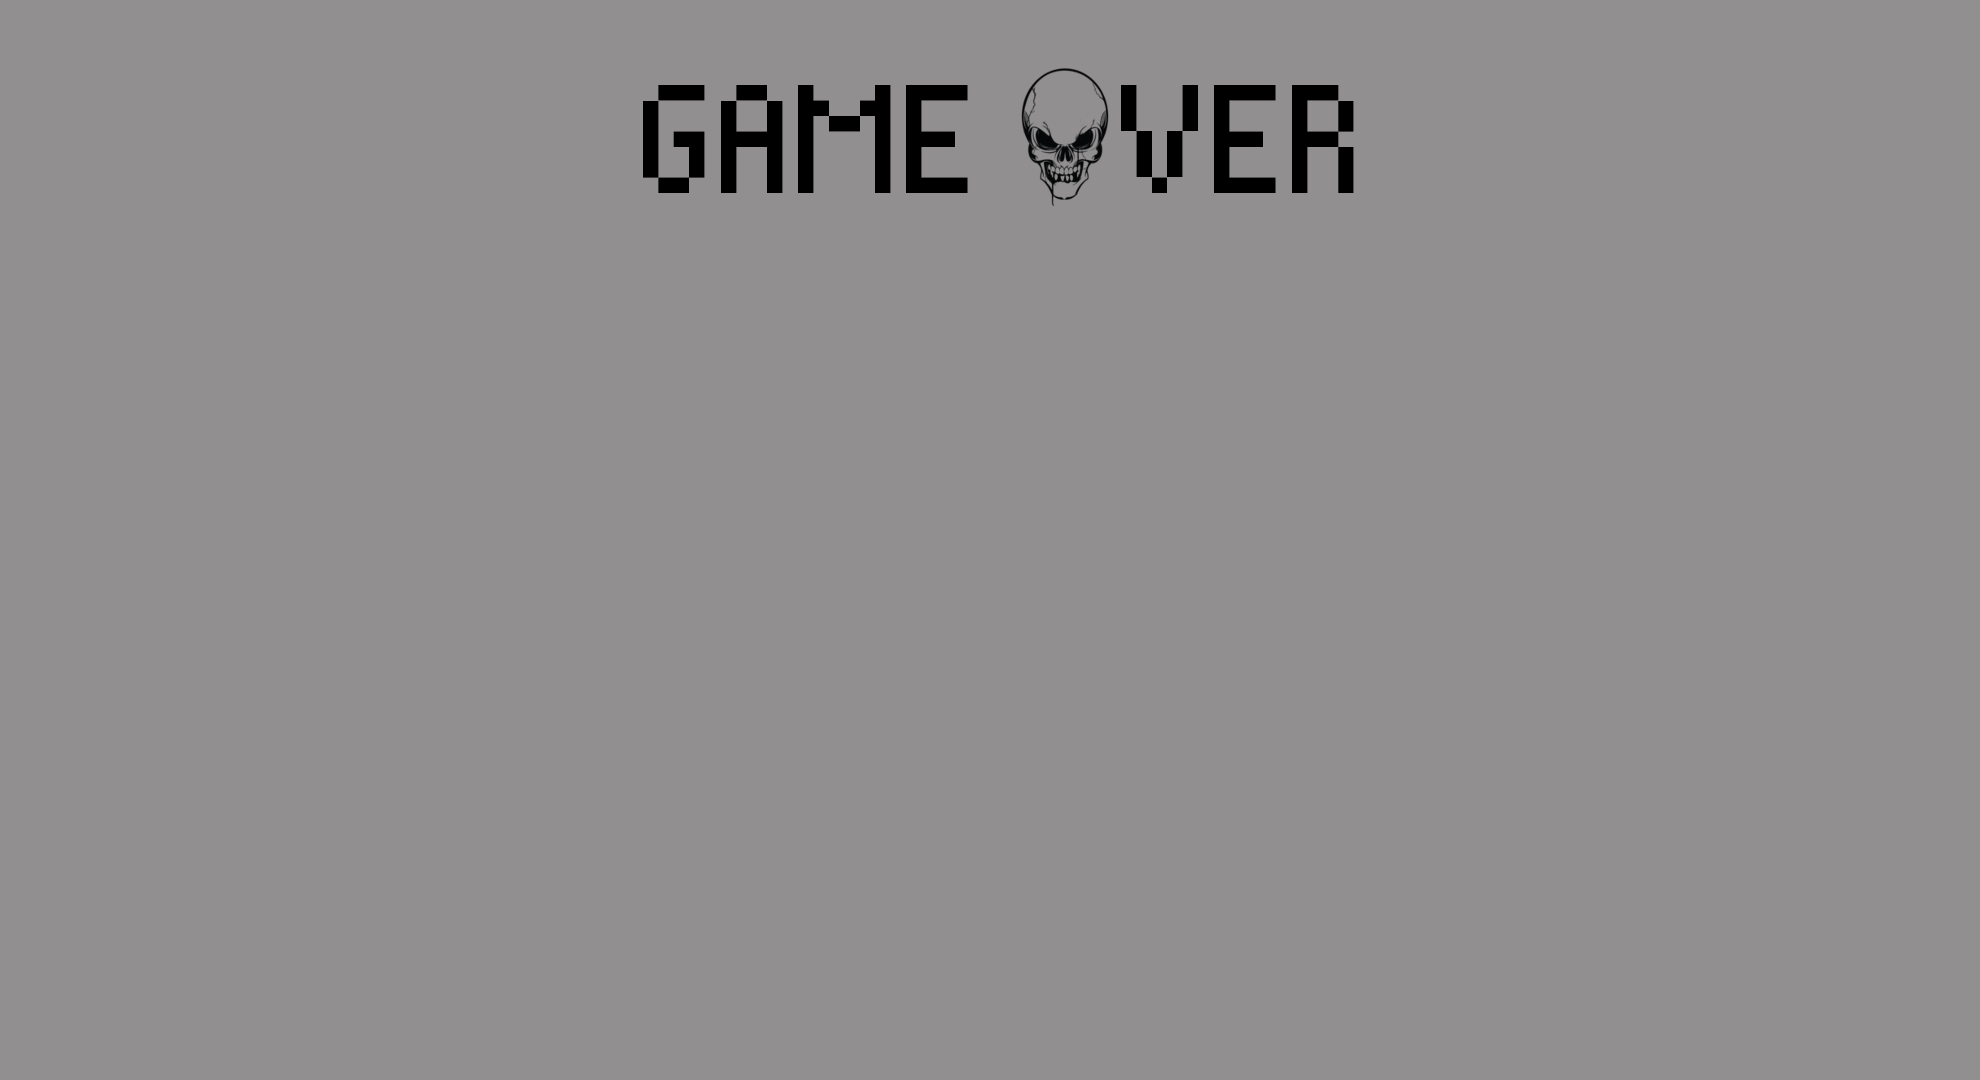
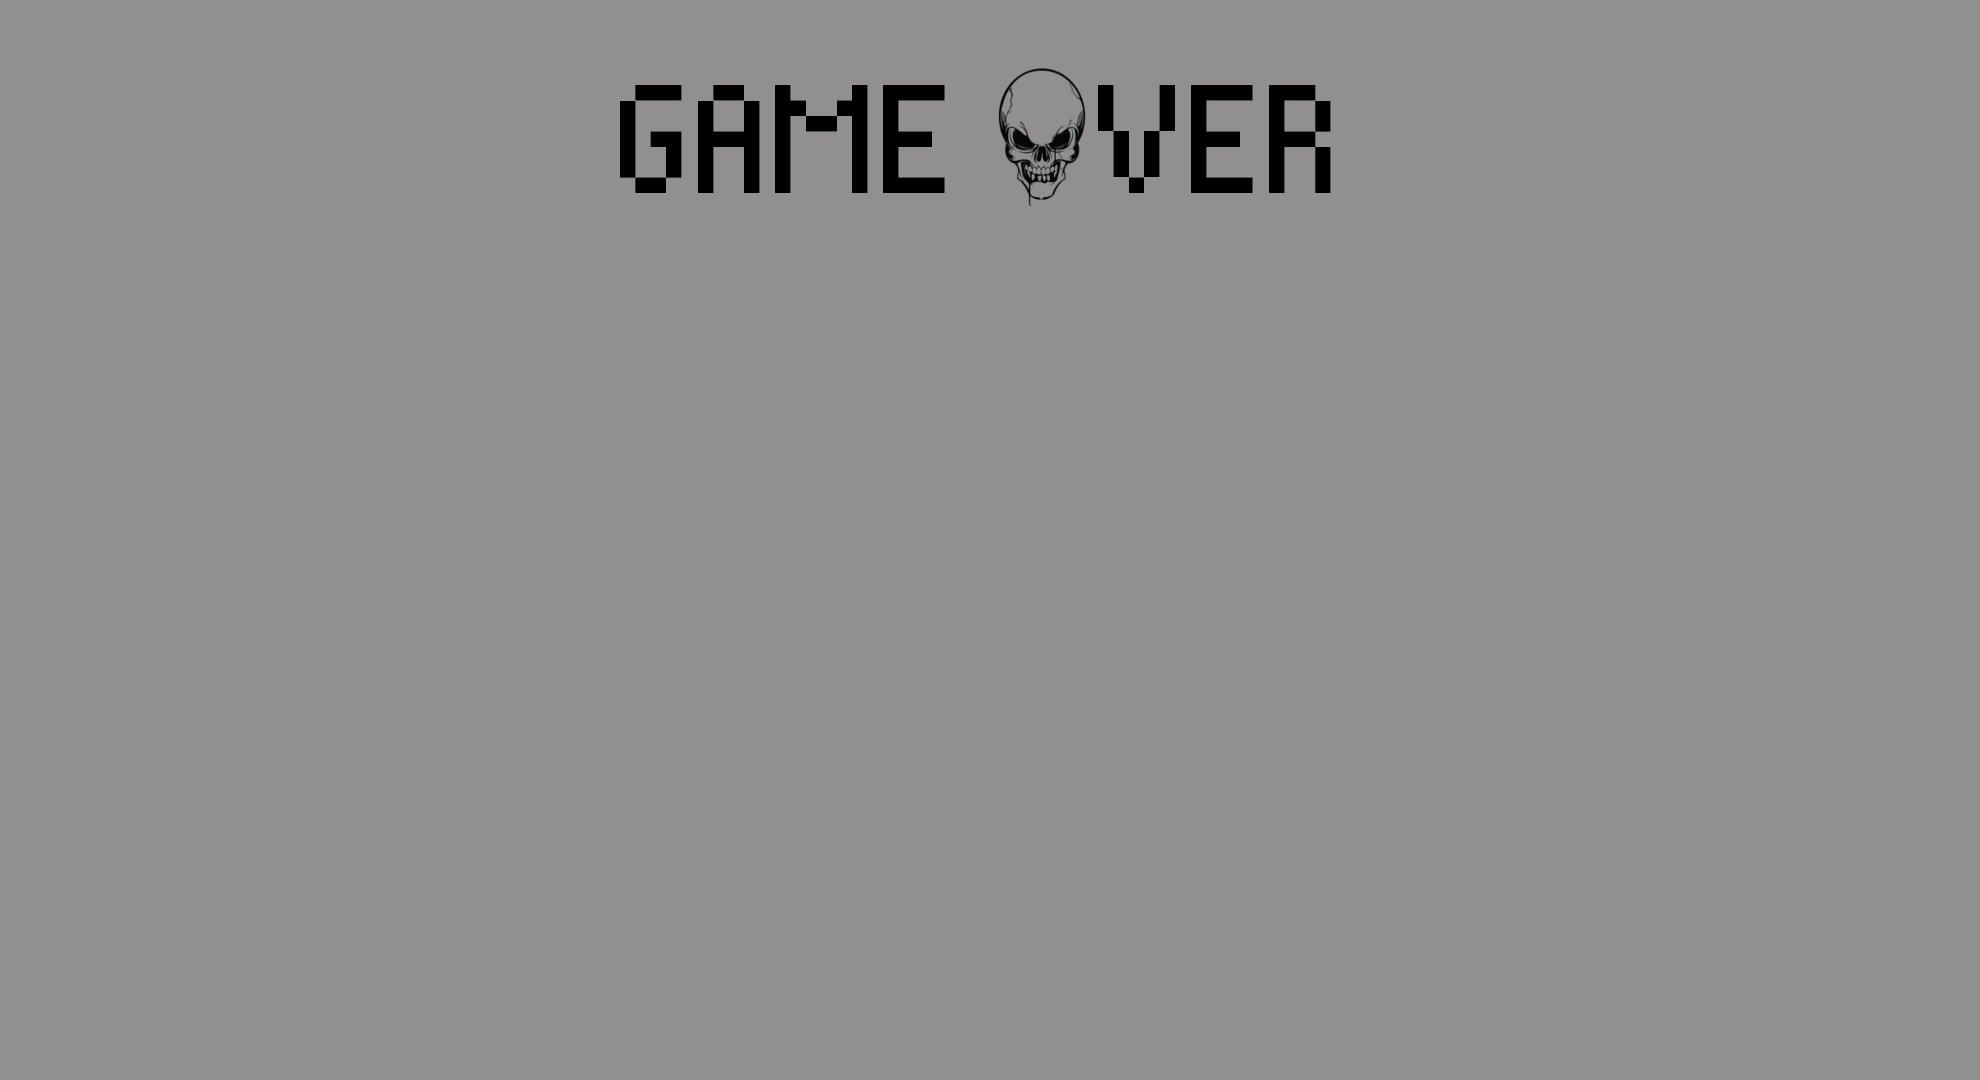
Fix bugs

Changed region(s): [[0.3081, 0.0611, 0.7086, 0.1833]]

diff --git a/src/gameover.cpp b/src/gameover.cpp
@@ -4,7 +4,7 @@
 using namespace std;
 using namespace sf;
 
-GameOver::GameOver(WindowRunner *window, Game &game) : ScreenWait(GAMEOVER_BACKGROUND_IMG, GAME_OVER_TEXT), window(window), game(game), timer(20), cursor_blink(500), cursor_visible(false), button_menu("MENU", MENU, 0, 0), button_playagain("PLAY AGAIN", SURVIVAL, 0, 0)
+GameOver::GameOver(WindowRunner *window, Game &game) : ScreenWait(GAMEOVER_BACKGROUND_IMG, Utils::translate(WindowRunner::getSetting("lang"), "game.over")), window(window), game(game), timer(20), cursor_blink(500), cursor_visible(false), button_menu("MENU", MENU, 0, 0), button_playagain("PLAY AGAIN", SURVIVAL, 0, 0)
 {
     assert(this->board_texture.loadFromFile(GAMEOVER_BOARD_IMG));
     this->board.setTexture(this->board_texture);
@@ -72,6 +72,8 @@ void GameOver::update()
     this->button_playagain.setText(Utils::translate(WindowRunner::getSetting("lang"), "playagain.button"));
     this->pseudo.setString(game.getModel()->getPseudo());
     this->score.setString(to_string(game.getModel()->getScore()));
+    this->setText(Utils::translate(WindowRunner::getSetting("lang"), "game.over"));
+    this->setTextPosition(Vector2f((VIEW_WIDTH - this->getTextWidth()) / 2, VIEW_HEIGHT - this->getTextHeight() - 100));
 
     if(this->board.getPosition().y > (VIEW_HEIGHT - this->board.getLocalBounds().height) / 2)
     {

diff --git a/src/window.cpp b/src/window.cpp
@@ -38,8 +38,8 @@ void WindowRunner::create()
     this->window->setView(*this);
     this->state = SPLASH;
 
-    this->splash_screen.setTextPosition(Vector2f((this->getSize().x - this->splash_screen.getTextWidth()) / 2, (this->getSize().y - this->splash_screen.getTextHeight()) / 1.2));
-    this->game_over.setTextPosition(Vector2f((this->getSize().x / 15), (this->getSize().y / 2)));
+    this->splash_screen.setText(Utils::translate(WindowRunner::getSetting("lang"), "splash.text"));
+    this->splash_screen.setTextPosition(Vector2f((this->getSize().x - this->splash_screen.getTextWidth()) / 2, (this->getSize().y - this->splash_screen.getTextHeight()) * 0.915));
 
     this->window->setFramerateLimit(FRAMERATE);
     this->window->setVerticalSyncEnabled(false); //Performance issues

diff --git a/src/utils.cpp b/src/utils.cpp
@@ -207,6 +207,7 @@ vector<string> Utils::getAvailableLanguages()
     if(dp != NULL)
     {
         while(ep = readdir (dp))
+            if(strcmp(ep->d_name, ".") != 0 && strcmp(ep->d_name, "..") != 0)
             lang.push_back(string(ep->d_name));
 
         closedir(dp);
